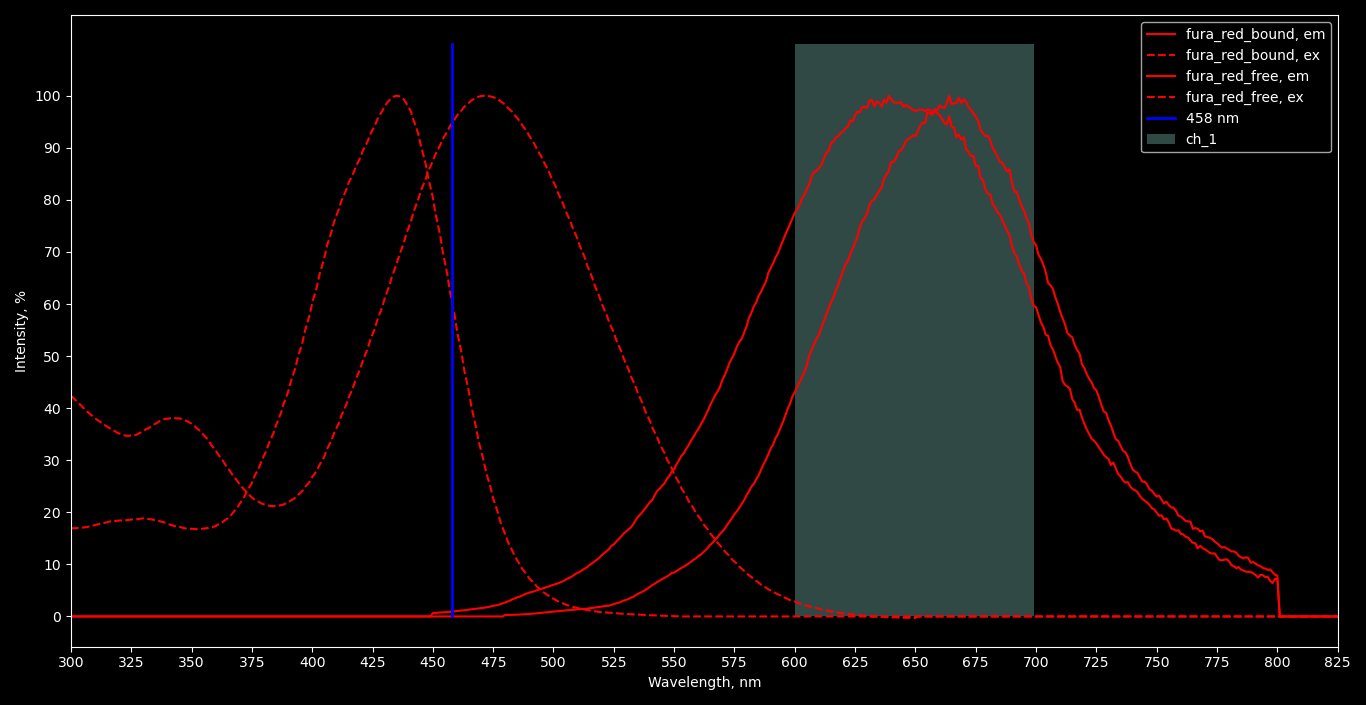
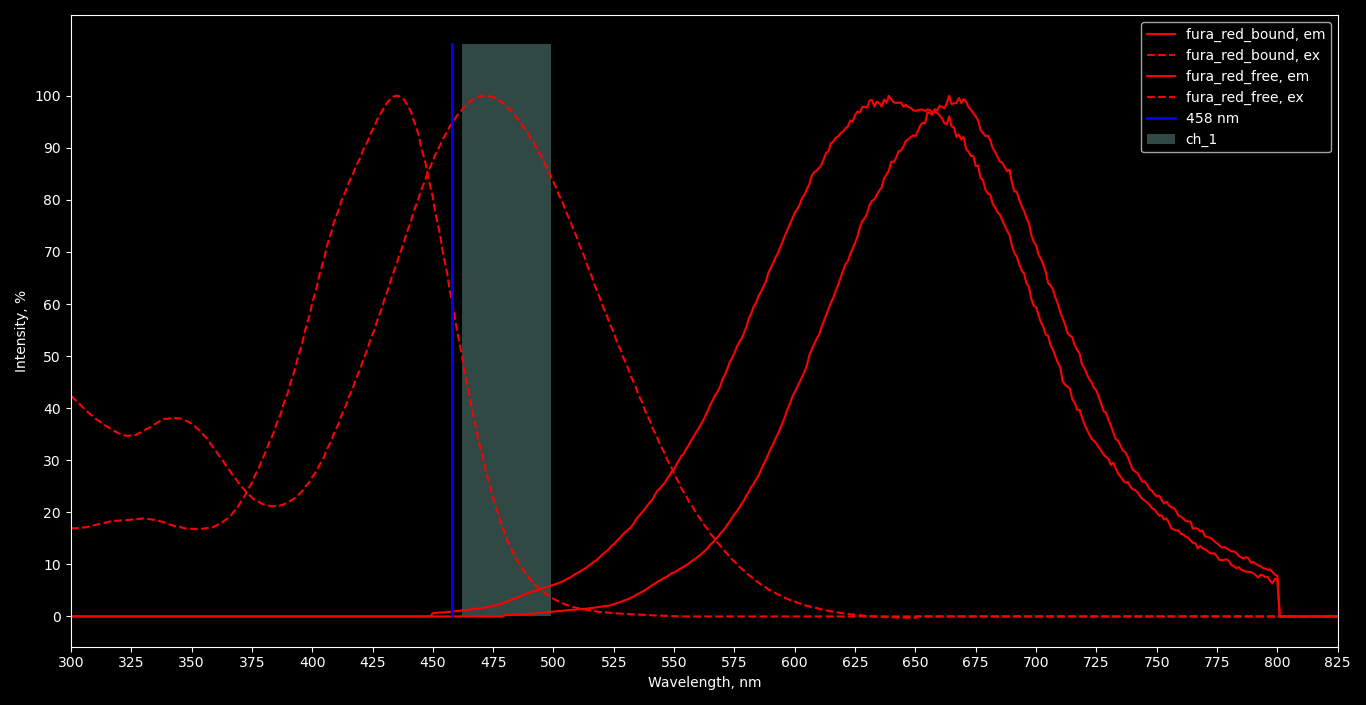
27.10.2020

Changed region(s): [[0.5842, 0.0624, 0.7687, 0.8738], [0.3382, 0.0624, 0.4305, 0.8738]]

diff --git a/projects/hek_transient/epx_plan_10_25.md b/projects/hek_transient/epx_plan_10_25.md
@@ -17,7 +17,7 @@ Experiments plan
 **NB: возбуждение Fura Red bound на 405 nm (68%) соизмеримо с возбужденим на 456 nm (60%)!**
 Может быть тогда стоит оценивать не прирост интенсивности, а падение? Возбуждение на 515 nm позволит регистрировать только свободную форму (**1% bound**/**66% free**), полоса 520-620 nm.
 
-При возбуждении 456 nm будет значительная флуоресценция до стимуляции (**60% bound/94% free**). Соотношение интегральной интенсивности free/bound в полосе регистрации 600-700 nm 1.43.
+При возбуждении 456 nm будет значительная флуоресценция до стимуляции (**60% bound/94% free**). Соотношение интегральной интенсивности free/bound в полосе регистрации 462-500 nm 0.14.
 
 <img src="pic/fura_red_ch.png" width="95%">
 

diff --git a/diary/10.2020/10_26_2020.md b/diary/10.2020/10_26_2020.md
@@ -1,0 +1,27 @@
+26.10.2020
+=========
+
+Культивирование HEK, пассаж **19.10_21_35.1** на 35 mm и четрыре лунки.
+
+---
+
+## Chemicals
+### Trypsin-EDTA
+Аликвота 50 ml поставлена на разморозку +4 114l для дальнейшего аликвотирования 5x10 ml.
+
+
+## HEK cells
+### Cells status (14:40)
+- **19.10_21_35.1**: >95%% +++
+- **24.10_14_25.1**: 10% ++
+
+### Passage (15:30)
+*Выполнено Сашей*
+
+Объемы посева **19.10_21_35.1**:
+
+- **26.10_22_35.1**: 20 ul 
+- **26.10_22_12.1.B1-B2**: 15 ul
+- **26.10_22_12.1.B3-B4**: 20 ul
+
+**Не уверен, возможно в лунках наоборот, уточнить у Саши**

diff --git a/diary/10.2020/10_24_2020.md b/diary/10.2020/10_24_2020.md
@@ -1,4 +1,4 @@
-22.10.2020
+24.10.2020
 =========
 
 Культивирование HEK, пассаж **17.10_13_35.2** на Т-25.
